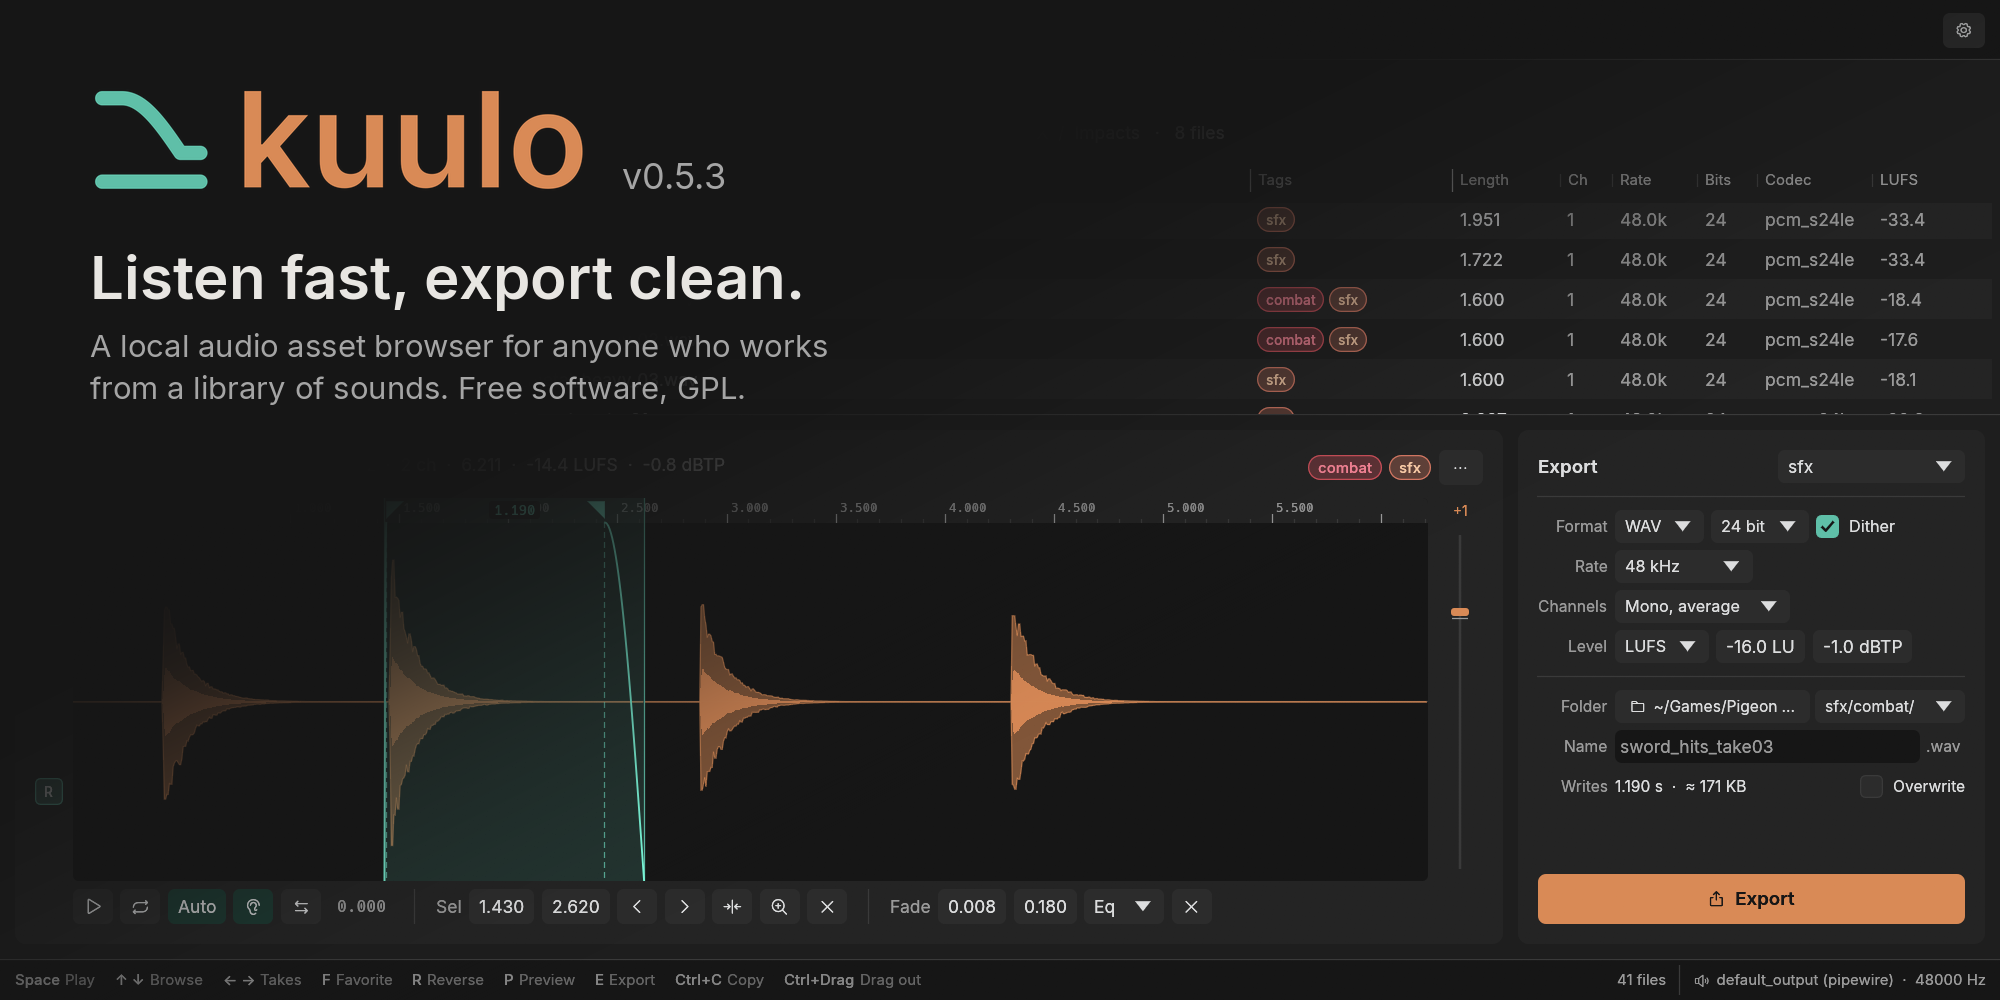
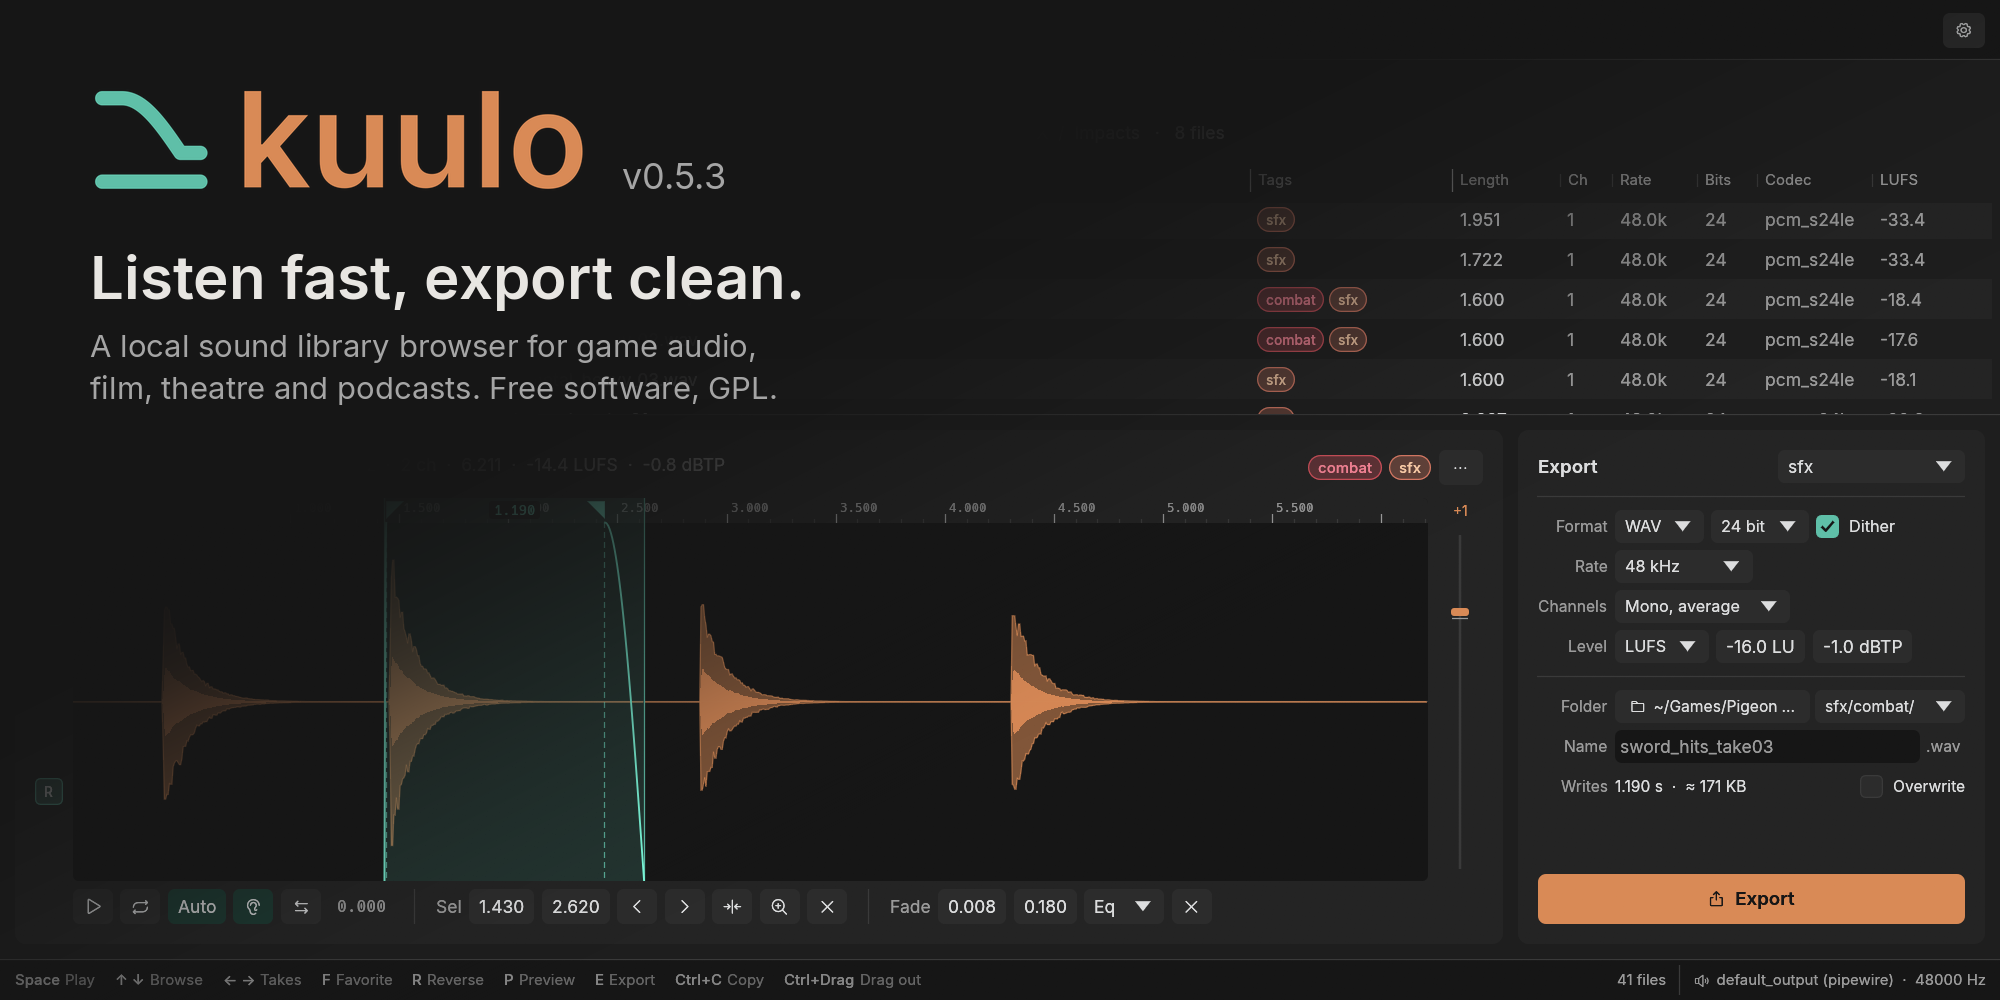
kuulo calls itself a sound library browser, the words its users have for what they browse, in the README, the About page, the desktop entry and the social card.

Changed region(s): [[0.031, 0.341, 0.403, 0.403]]

diff --git a/crates/kuulo/src/settings.rs b/crates/kuulo/src/settings.rs
@@ -205,7 +205,7 @@ impl App {
         ui.label(theme::semibold("kuulo").size(28.0));
         ui.label(RichText::new(format!("Version {}", kuulo_core::VERSION)).color(theme.muted));
         ui.add_space(6.0);
-        ui.label("A local audio asset browser: audition a folder library, mark what you find, and export selections with their origin inside the file.");
+        ui.label("A local sound library browser: audition a folder library, mark what you find, and export selections with their origin inside the file.");
         ui.add_space(16.0);
         let link = |ui: &mut egui::Ui, icon: &str, label: &str, url: String| {
             if ui.add(egui::Button::new(theme::icon_text(icon, label, 14.0, egui::FontFamily::Proportional, Color32::PLACEHOLDER)).min_size(egui::vec2(0.0, 28.0))).on_hover_text(&url).clicked() {

diff --git a/AGENTS.md b/AGENTS.md
@@ -4,7 +4,7 @@ Guidance for coding agents working in this repository.
 
 ## What this is
 
-kuulo: a local audio asset browser for anyone who works from a library of sounds, game audio first but film, apps, theatre and podcasts alike. Fast audition of a folder-based library, favorites and user-defined tags, waveform selection with fades, preset-driven export into a project, and an origin record embedded in every exported file. Linux and Wayland first, Windows and macOS from the same code. Public repository, git, GPL-3.0-or-later.
+kuulo: a local sound library browser, game audio first but film, apps, theatre and podcasts alike. Fast audition of a folder-based library, favorites and user-defined tags, waveform selection with fades, preset-driven export into a project, and an origin record embedded in every exported file. Linux and Wayland first, Windows and macOS from the same code. Public repository, git, GPL-3.0-or-later.
 
 The design note that started it lives in the user's Obsidian vault (`Audio Asset Browser - idea.md`); `README.md` is the current description for users.
 

diff --git a/README.md b/README.md
@@ -1,6 +1,6 @@
 <img src="docs/brand/kuulo-logo.png" alt="kuulo" width="240">
 
-**Listen fast, export clean.** A local audio asset browser for anyone who works from a library of sounds: game audio, film and video post, apps, theatre, podcasts, sample packs.
+**Listen fast, export clean.** A local sound library browser for game audio, film and video post, apps, theatre, podcasts and sample packs.
 
 ![kuulo auditioning a sword take, one hit selected with fades, the export card set to the sfx preset](docs/screenshots/hero.png)
 
